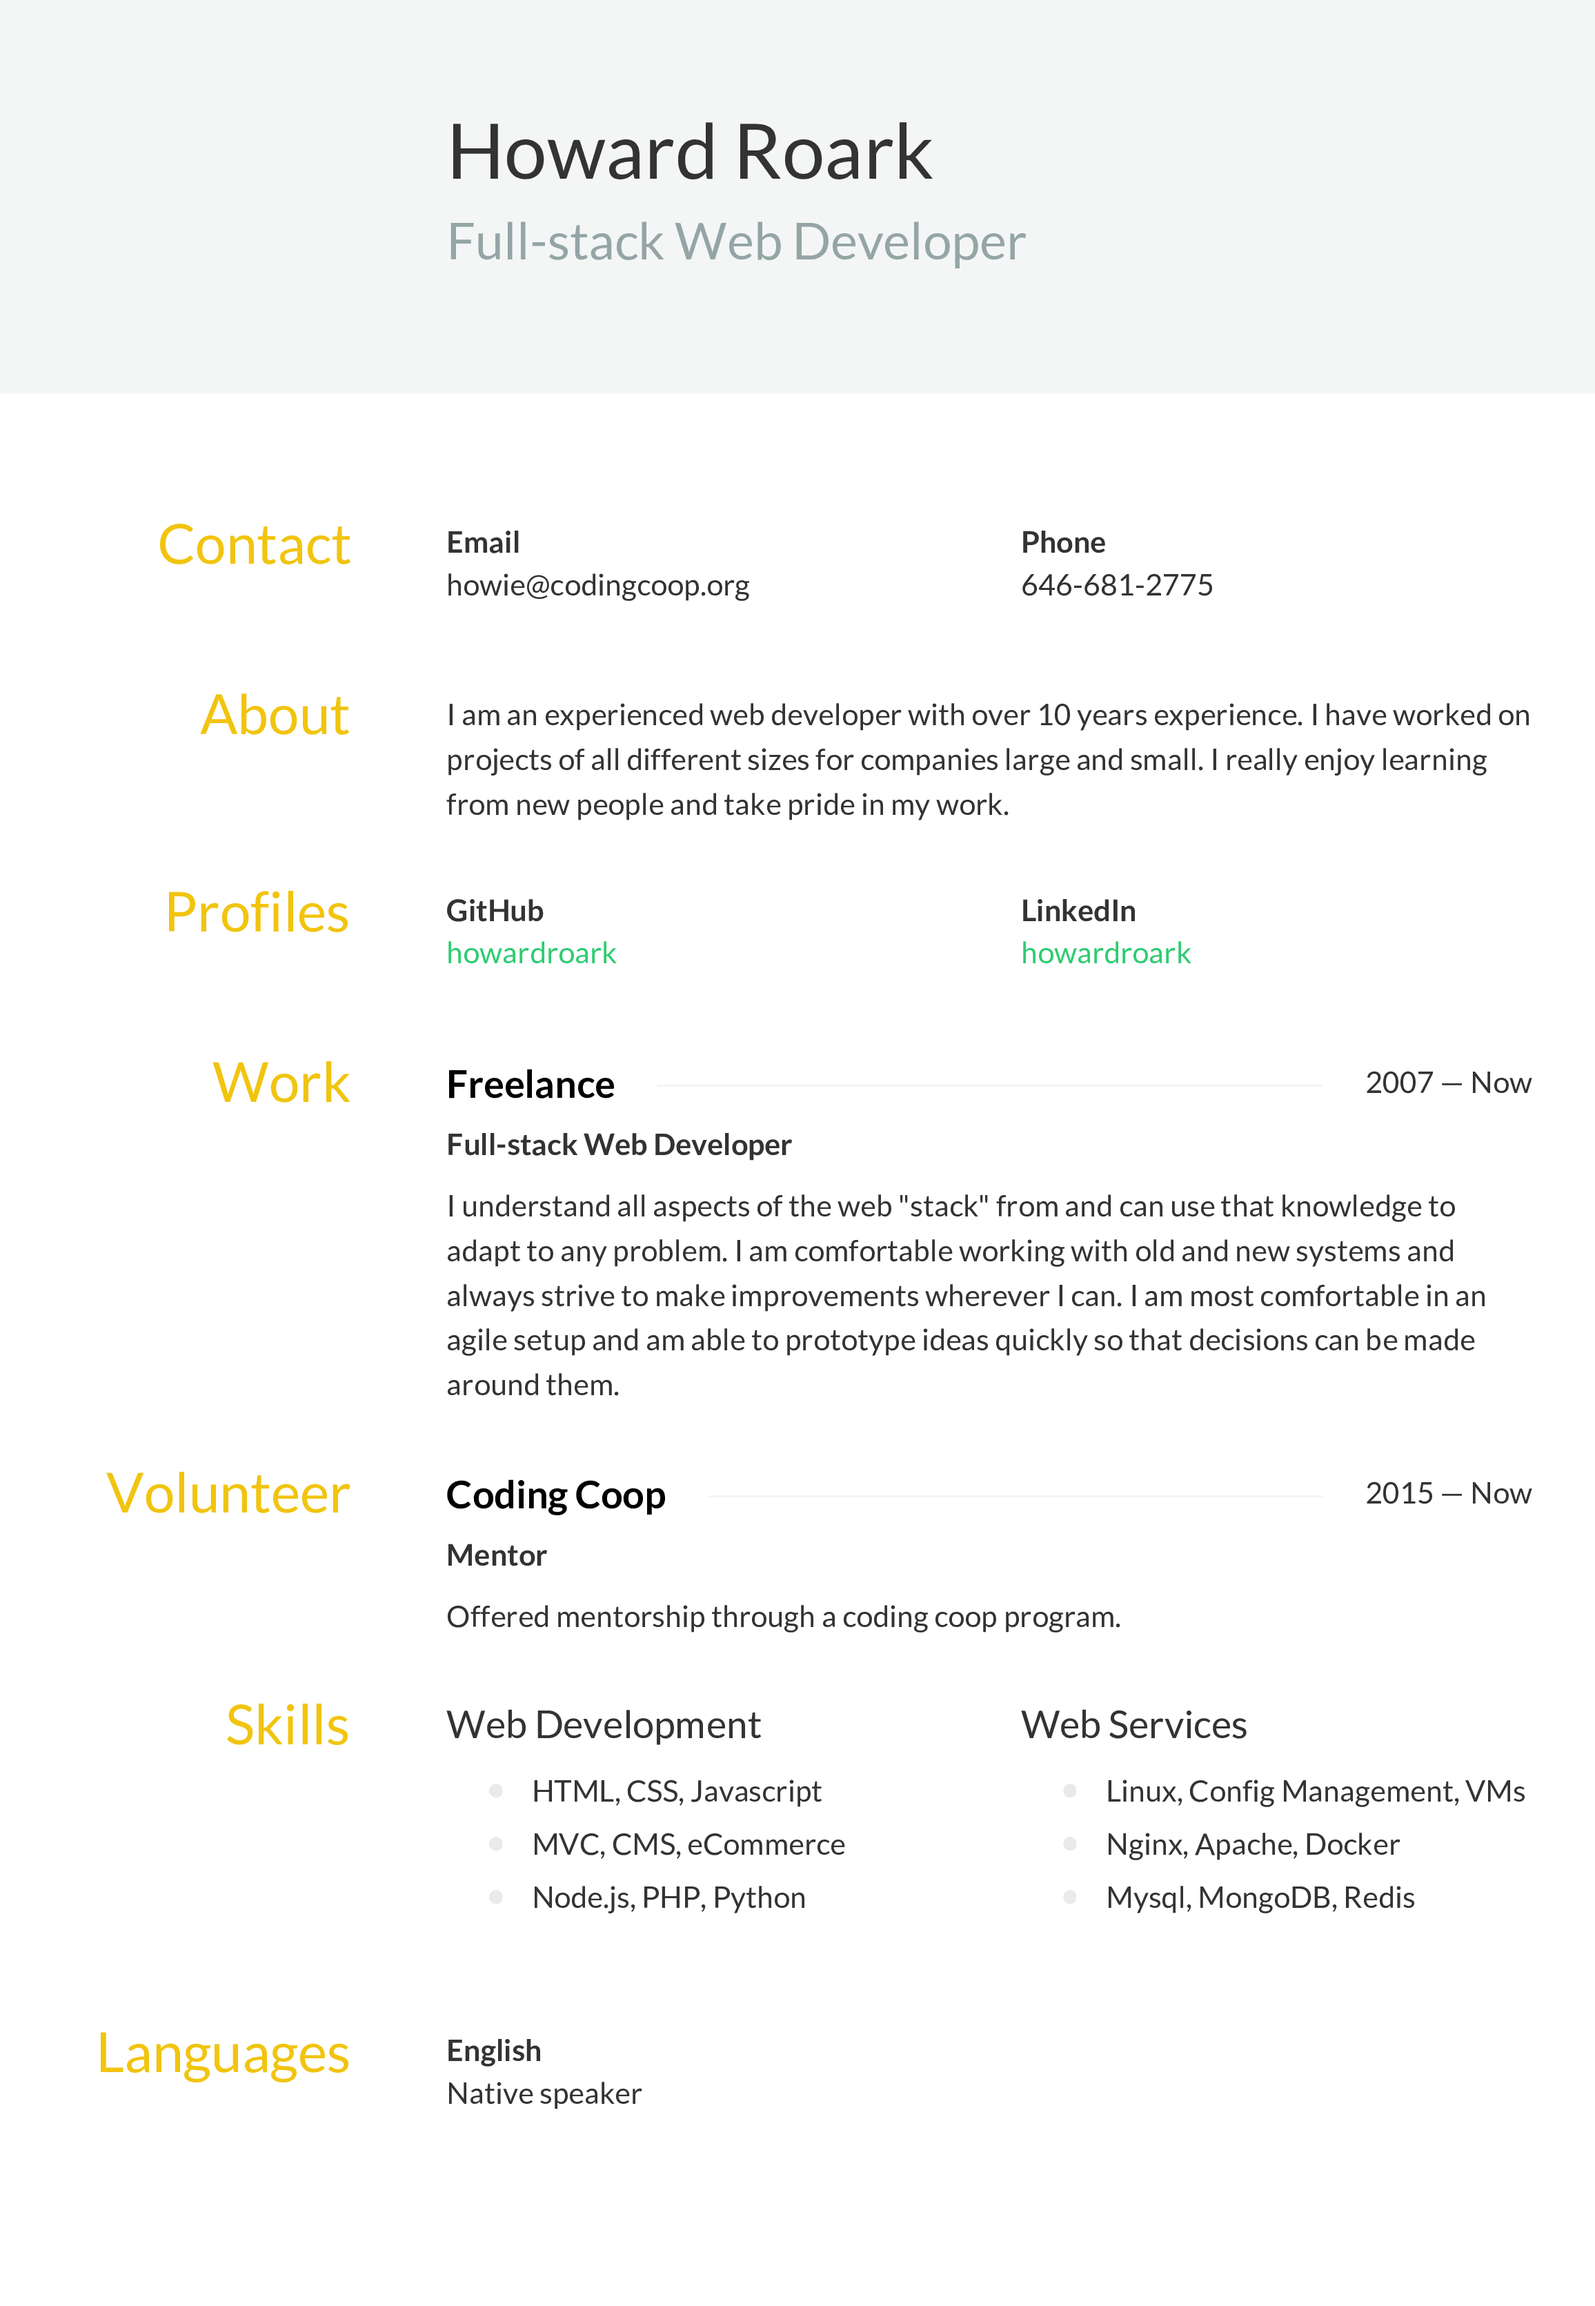
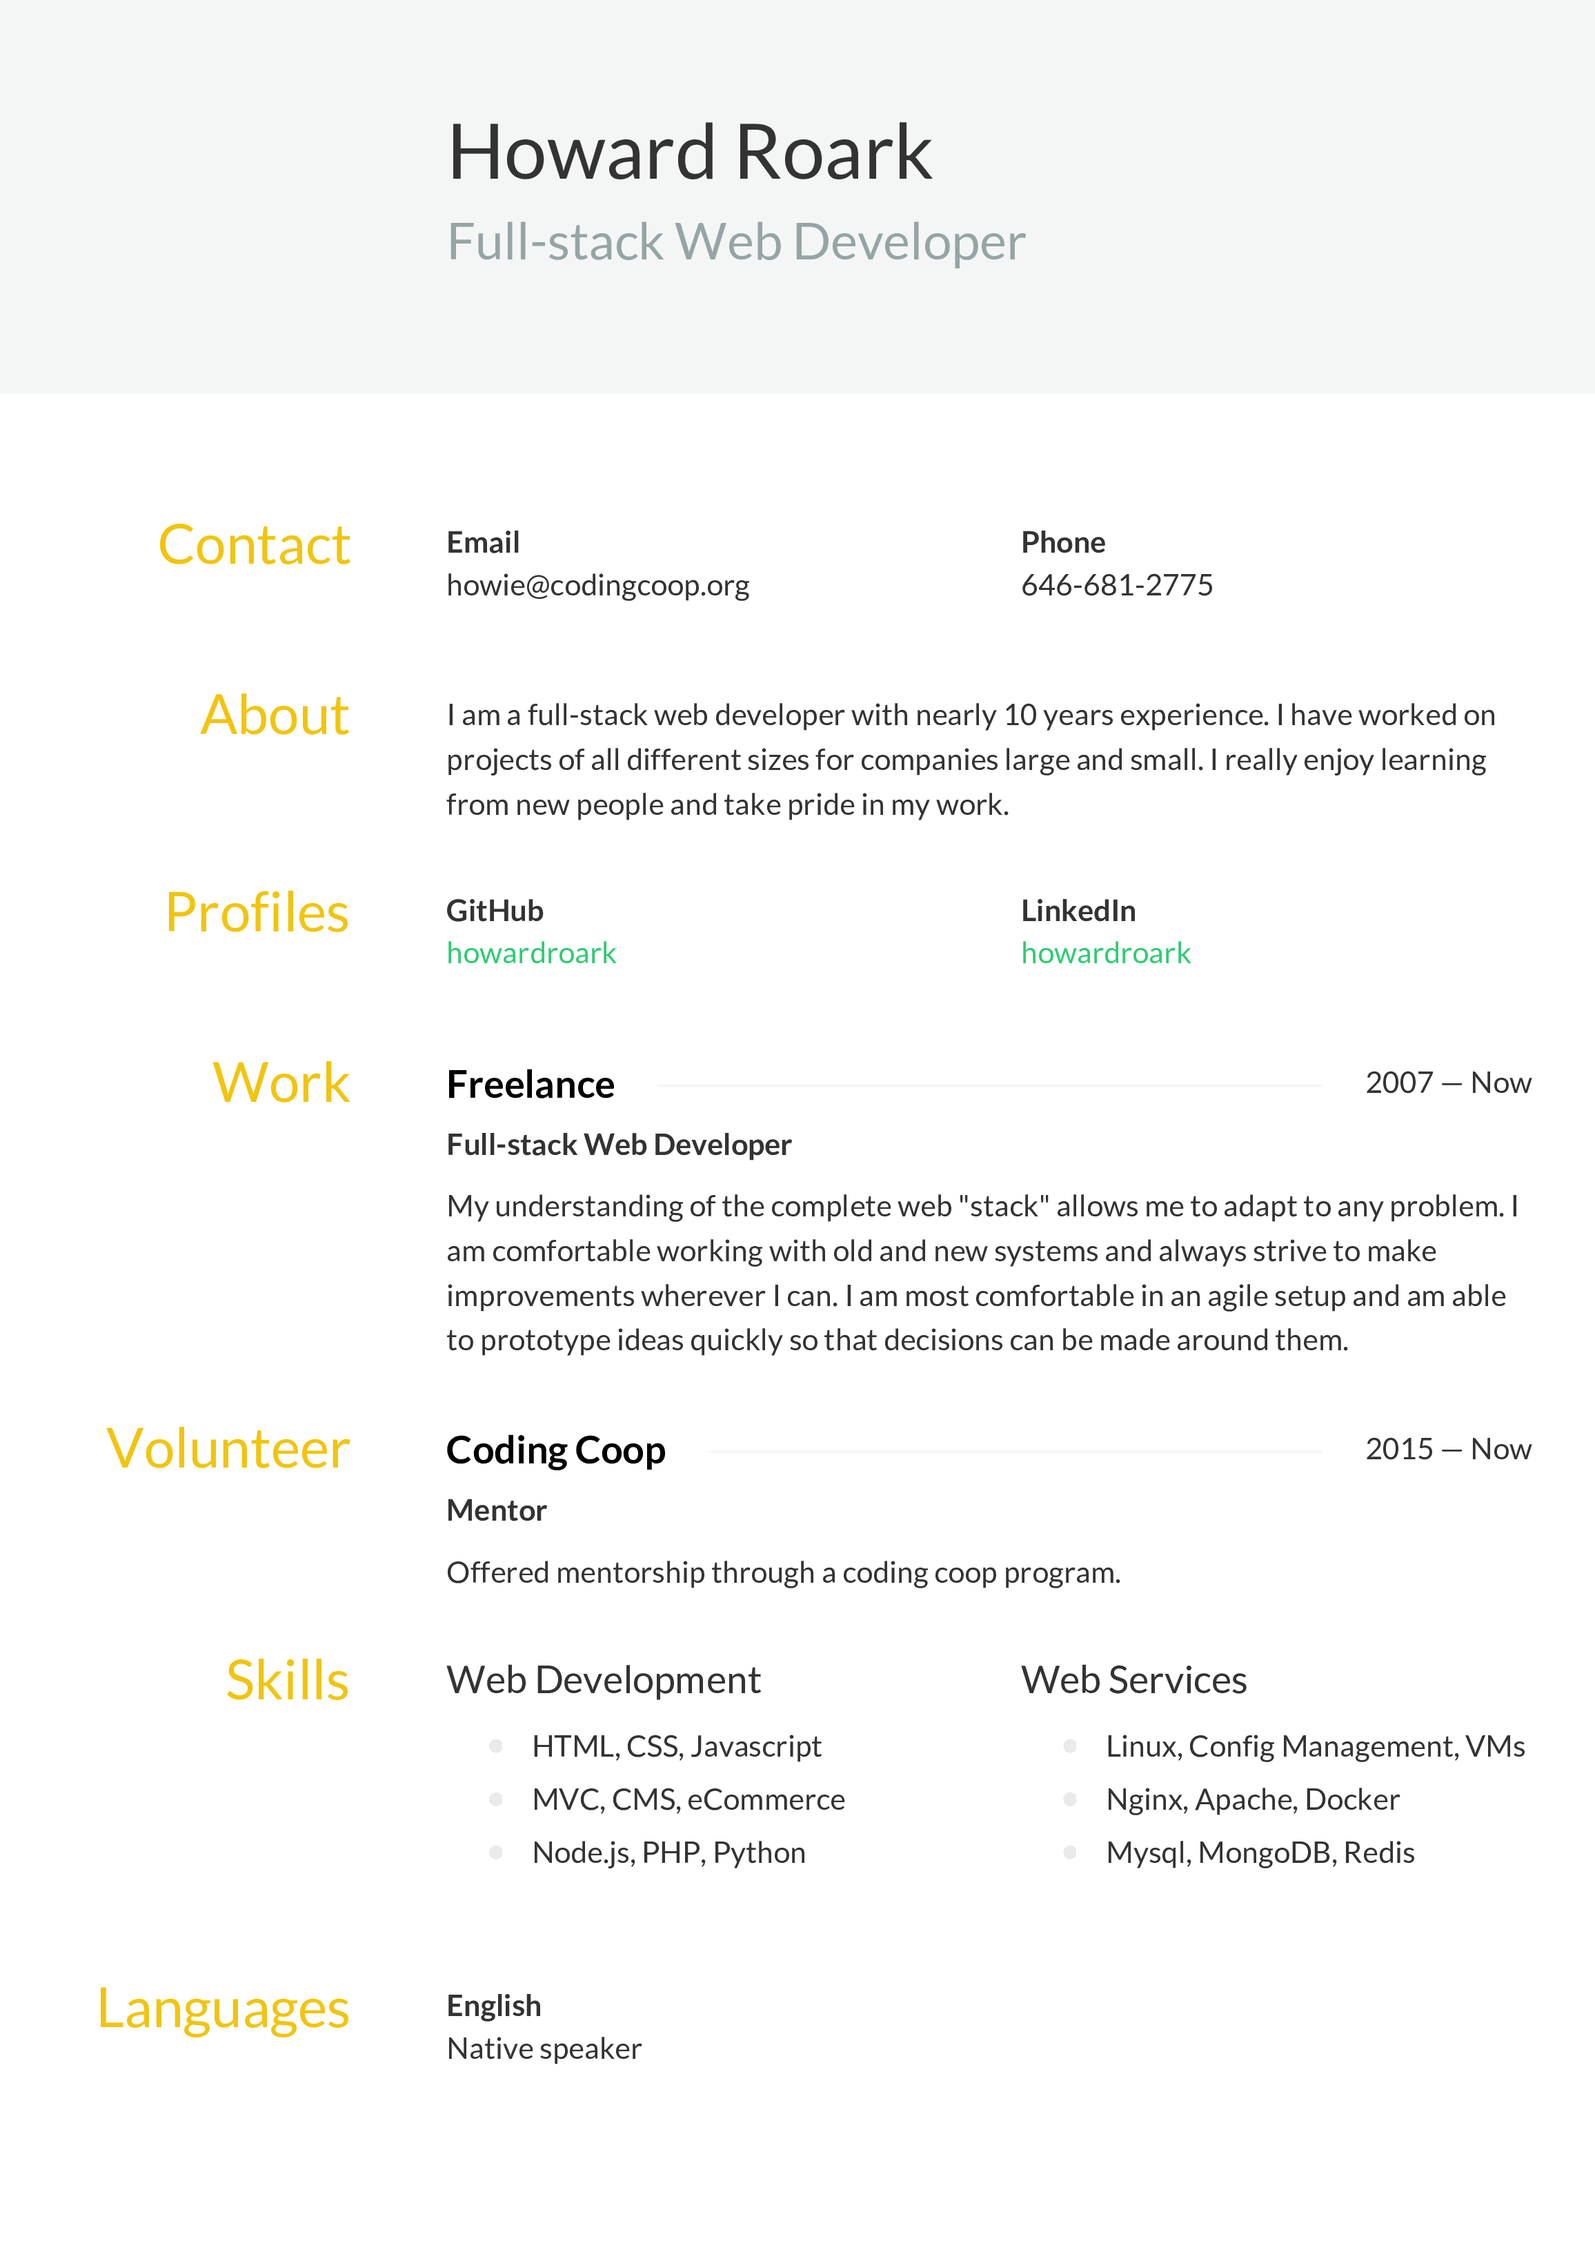
Updating copy.

diff --git a/index.html b/index.html
@@ -216,7 +216,7 @@ h4 span:first-child {
 			<div class="row">
 			<div class="col-sm-6">
 				<strong>Email</strong>
-				<div class="email"><a class="__cf_email__" href="/cdn-cgi/l/email-protection" data-cfemail="bdd5d2cad4d8fdded2d9d4d3daded2d2cd93d2cfda">[email&#160;protected]</a><script data-cfhash='f9e31' type="text/javascript">/* <![CDATA[ */!function(t,e,r,n,c,a,p){try{t=document.currentScript||function(){for(t=document.getElementsByTagName('script'),e=t.length;e--;)if(t[e].getAttribute('data-cfhash'))return t[e]}();if(t&&(c=t.previousSibling)){p=t.parentNode;if(a=c.getAttribute('data-cfemail')){for(e='',r='0x'+a.substr(0,2)|0,n=2;a.length-n;n+=2)e+='%'+('0'+('0x'+a.substr(n,2)^r).toString(16)).slice(-2);p.replaceChild(document.createTextNode(decodeURIComponent(e)),c)}p.removeChild(t)}}catch(u){}}()/* ]]> */</script></div>
+				<div class="email"><a class="__cf_email__" href="/cdn-cgi/l/email-protection" data-cfemail="442c2b332d2104272b202d2a23272b2b346a2b3623">[email&#160;protected]</a><script data-cfhash='f9e31' type="text/javascript">/* <![CDATA[ */!function(t,e,r,n,c,a,p){try{t=document.currentScript||function(){for(t=document.getElementsByTagName('script'),e=t.length;e--;)if(t[e].getAttribute('data-cfhash'))return t[e]}();if(t&&(c=t.previousSibling)){p=t.parentNode;if(a=c.getAttribute('data-cfemail')){for(e='',r='0x'+a.substr(0,2)|0,n=2;a.length-n;n+=2)e+='%'+('0'+('0x'+a.substr(n,2)^r).toString(16)).slice(-2);p.replaceChild(document.createTextNode(decodeURIComponent(e)),c)}p.removeChild(t)}}catch(u){}}()/* ]]> */</script></div>
 			</div>
 			<div class="col-sm-6">
 				<strong>Phone</strong>
@@ -230,7 +230,7 @@ h4 span:first-child {
 			<h3>About</h3>
 		</aside>
 		<div class="col-sm-9">
-			<p>I am an experienced web developer with over 10 years experience.  I have worked on projects of all different sizes for companies large and small.  I really enjoy learning from new people and take pride in my work.</p>
+			<p>I am a full-stack web developer with nearly 10 years experience. I have worked on projects of all different sizes for companies large and small. I really enjoy learning from new people and take pride in my work.</p>
 		</div>
 	</section>
 	<section id="profiles" class="row">
@@ -283,7 +283,7 @@ h4 span:first-child {
 					Full-stack Web Developer
 				</div>
 				<div class="summary">
-					<p>I understand all aspects of the web &quot;stack&quot; from and can use that knowledge to adapt to any problem.  I am comfortable working with old and new systems and always strive to make improvements wherever I can.  I am most comfortable in an agile setup and am able to prototype ideas quickly so that decisions can be made around them.</p>
+					<p>My understanding of the complete web &quot;stack&quot; allows me to adapt to any problem.  I am comfortable working with old and new systems and always strive to make improvements wherever I can.  I am most comfortable in an agile setup and am able to prototype ideas quickly so that decisions can be made around them.</p>
 				</div>
 			</div>
 			</div>
